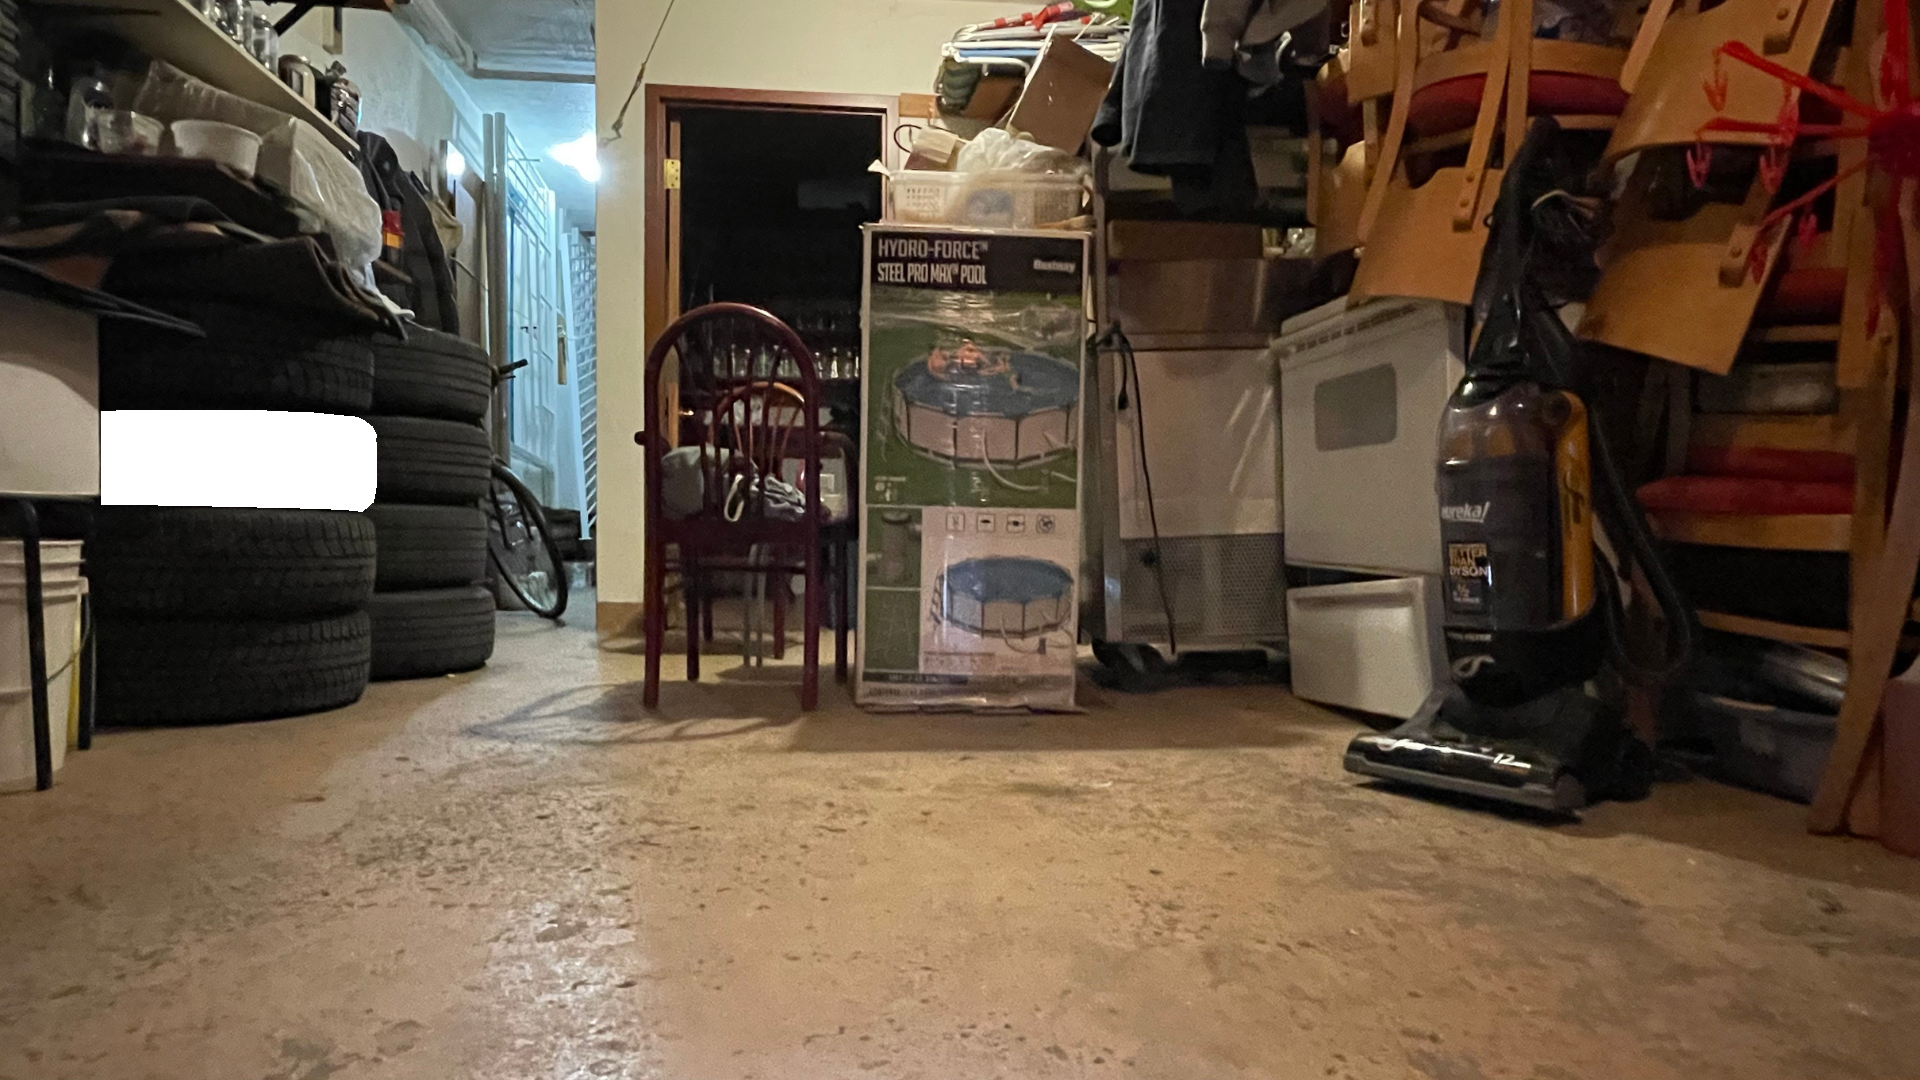
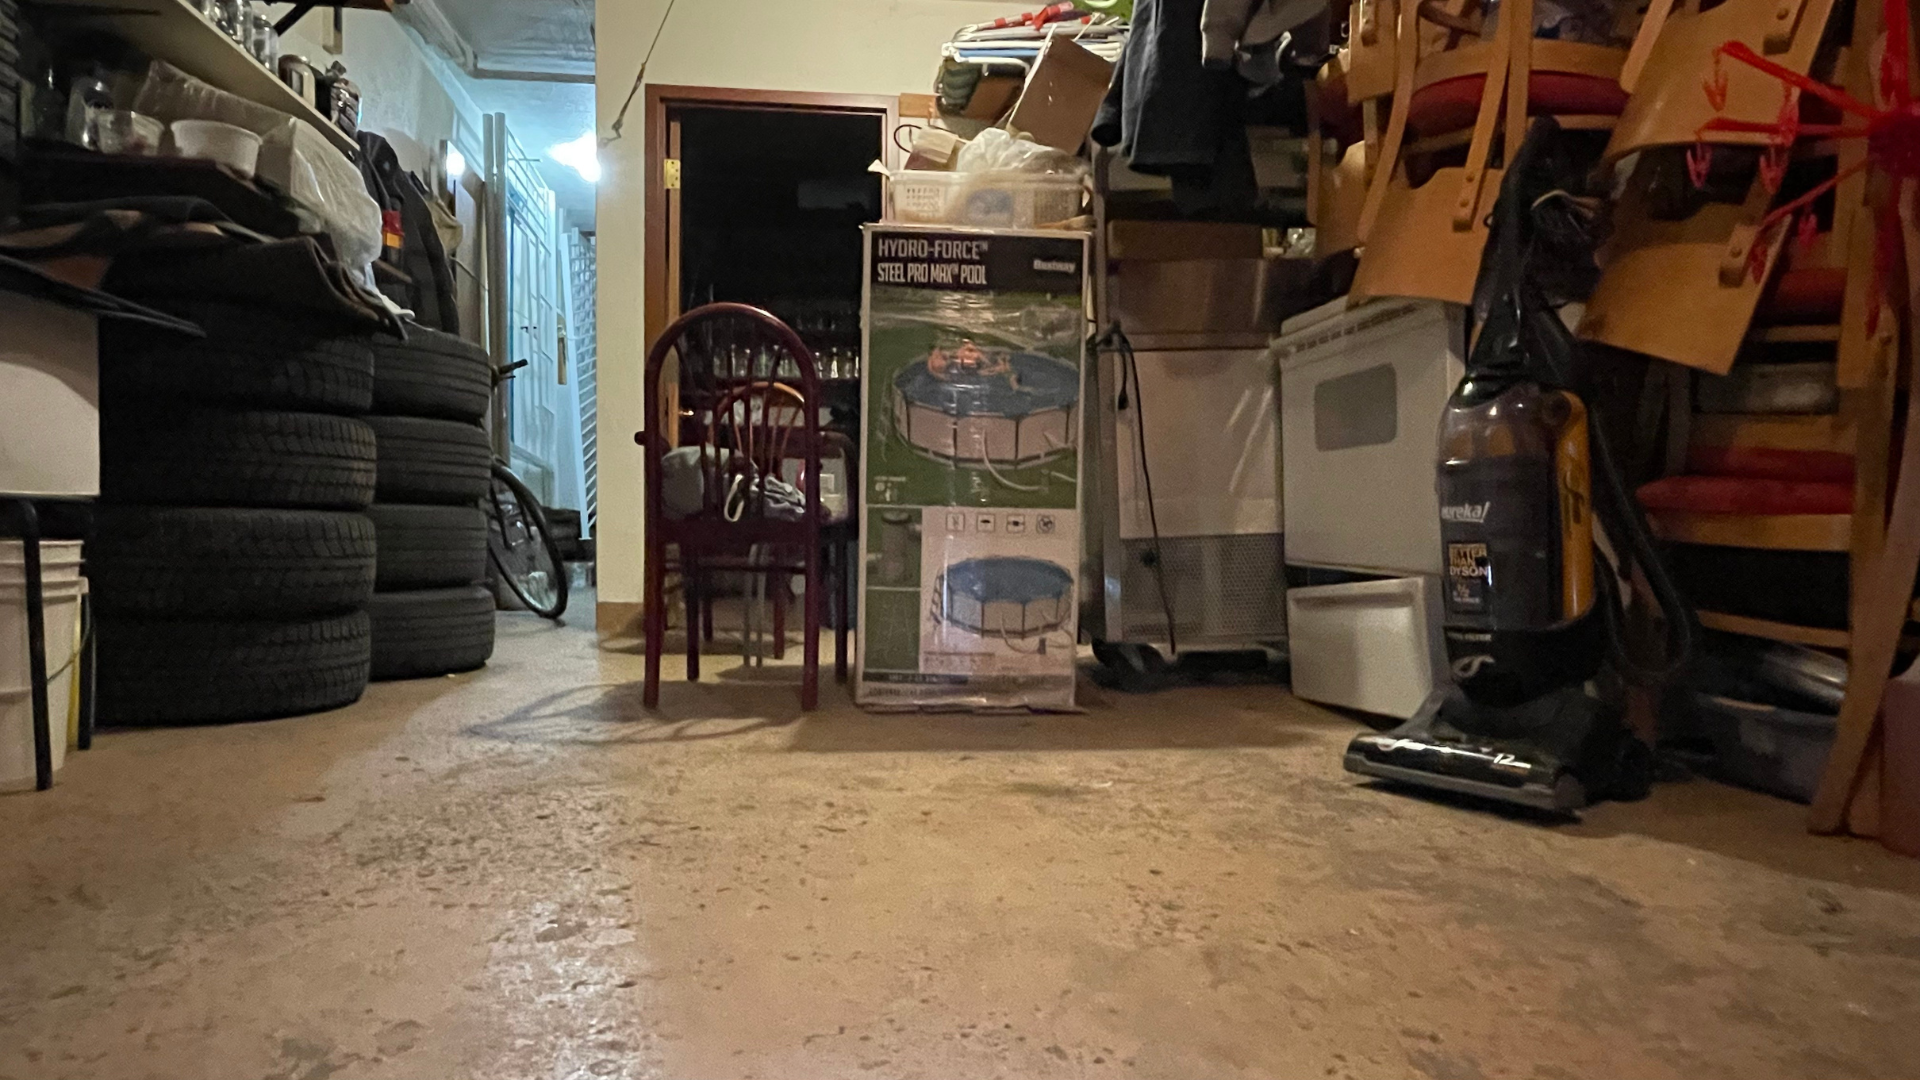
mainGame : début de passage vers flashlight

Changed region(s): [[0.0312, 0.3667, 0.2188, 0.4889]]

diff --git a/webSite/src/assets/js/mainGame.js b/webSite/src/assets/js/mainGame.js
@@ -25,7 +25,7 @@ function generateImgRoom() {
     imageObjects = [];
     for (let i = 0; i < house[user.room].views.length; i++) {
         const image = new Image();
-        image.src = `assets/png/${house[user.room].name}/${i}.png`;   
+        image.src = `assets/png/${house[user.room].name}/${i}.png`;
         imageObjects.push(image)
     }
 }
@@ -45,7 +45,7 @@ function generateView(){
         addMonster(position.x, position.y, position.height, position.width);
     }
 
-    // Add door 
+    // Add door
     const doors = house[user.room].views[user.view].doors;
     if (doors) {
         doors.forEach(function(door) {
@@ -100,7 +100,7 @@ function removeDoor(){
 
         doorsArray.forEach(function(door) {
             door.parentNode.removeChild(door);
-        });   
+        });
     }
 }
 
@@ -108,7 +108,7 @@ function generateDoor(x, y, roomIndex, view){
      // Create a div element
      var iconElement = document.createElement('iconify-icon');
      iconElement.classList.add("door");
- 
+
 
      // Set the x and y position of the icon
      iconElement.style.position = 'absolute';
@@ -129,9 +129,9 @@ function generateDoor(x, y, roomIndex, view){
         generateImgRoom()
         generateView();
      });
- 
+
      // Append the monster image to the body
-     document.getElementById("container").appendChild(iconElement); 
+     document.getElementById("container").appendChild(iconElement);
 }
 
 function generateMonster() {
@@ -161,7 +161,7 @@ function addMonster(x, y, width, height) {
 
     // Set the size of the monster image
     monsterImg.style.height =  Math.min(width, height) * 8/10 + "%"; // Adjust the width as needed
-    
+
     // Set the style attributes to position the monster based on x and y values
     monsterImg.style.position = "absolute";
     monsterImg.style.left = (x + width / 2) + "%";
@@ -185,14 +185,14 @@ function addMonster(x, y, width, height) {
 
         // Delay the navigation by 100 milliseconds (adjust as needed)
         setTimeout(function() {
-            
-            window.location.href = miniGamePath + "?monsterIndex=" + encodeURIComponent(monsterLocation.monsterIndex) 
+
+            window.location.href = miniGamePath + "?monsterIndex=" + encodeURIComponent(monsterLocation.monsterIndex)
             + "&roomName=" + encodeURIComponent(house[user.room].name) + "&viewIndex=" + encodeURIComponent(user.view);
         }, 10);
     });
 
     // Append the monster image to the body
-    document.getElementById("container").appendChild(monsterImg); 
+    document.getElementById("container").appendChild(monsterImg);
 }
 
 async function fetchData() {
@@ -290,7 +290,7 @@ function makeDraggableRightOnly() {
                     document.removeEventListener('mousemove', mousemoveHandler);
                     document.removeEventListener('mouseup', mouseupHandler)
                     window.location.href = "typing.html"; // TEMPORARY
-                } else { 
+                } else {
                     tireImg.style.left = `${(initialObjectXpos + xDiff) * 100}%`;
                 }
             } else {
@@ -336,7 +336,7 @@ window.onload = () => {
         if(user.monster >= 3){
             let userJSON = JSON.stringify(newUser);
             sessionStorage.setItem("userData", userJSON);
-            
+
             window.location.href = "endStory.html"
         }
 

diff --git a/webSite/src/assets/css/mainGame.css b/webSite/src/assets/css/mainGame.css
@@ -1,57 +1,75 @@
-body > img {
-    position: fixed;
-    top: 50%;
-    left: 50%;
-    transform: translate(-50%, -50%);
-    max-width: 100%;
-    max-height: 100%;
-    object-fit: contain;
+:root{
+    --main-bg: rgb(22, 20, 20);
 }
-
-img {
-    transform: translate(-50%, -50%);
-    pointer-events: none;
-}
-
 
 body {
-    background-color: black;
-    min-height: 100vh;
     margin: 0;
-    user-select: none;
-}
+    background-color: var(--main-bg);
+    background-image: url("../png/garage/0.png");
+    background-repeat: no-repeat;
+    background-size: contain;
+    background-position: center;
+    width: 100vw;
+    height: 100vh
 
-#container {
+  }
+
+  svg {
     position: fixed;
-    display: flex;
-    justify-content: space-between;
-    top: 50%;
-    left: 50%;
-    transform: translate(-50%, -50%);
-}
-
-.side-containers  {
-    height : 100%;
-    width: 60px;
-    display: flex;
-    align-items: center;
-    color: white;
-}
-
-.side-containers div  {
-    width: 100%;
-    text-align: center;
-}
-
-.draggable {
-    position: absolute;
-    border: 2px solid red;
-    height: 8.8%;
-    width: 14.5%;
-    left: 5.1%;
-    top: 38%;
-}
-
-#tire {
+    top: 0;
+    left: 0;
+    width: 100vw;
+    height: 100vh;
     z-index: 1;
+  }
+
+  /* #front-image:hover {
+      mask: url("#cursorMask");
+  } */
+
+  #front-image {
+      filter: brightness(0.3);
+      position: absolute;
+      top: 0;
+      left: 0;
+      width: 100vw;
+      height: 100vh;
+      z-index: 2;
+  }
+
+  .front:hover {
+      mask: url("#cursorMask");
+  }
+
+  .monster {
+      position: absolute;
+      top: 50%;
+      left: 50%;
+      width: 7em;
+      height: auto;
+      z-index: 0;
+  }
+
+.side-containers {
+    position: fixed;
+    top: 50%;
+    transform: translateY(-50%);
+    width: 10vw;
+    height: 5vw;
+    background-color: transparent;
+    color: #fff;
+    text-align: center;
+    line-height: 5vw;
+    font-size: 1.6vw;
+    font-weight: bold;
+    cursor: pointer;
+    z-index: 3;
+}
+
+.side-containers.left {
+    left: 1vw;
+}
+
+.side-containers.right {
+    right: 1vw;
 }

diff --git a/webSite/src/mainGame.html b/webSite/src/mainGame.html
@@ -6,11 +6,34 @@
     <title>Chasseur de monstres</title>
     <link rel="stylesheet" href="assets/css/mainGame.css">
     <script src="https://code.iconify.design/iconify-icon/1.0.7/iconify-icon.min.js"></script>
+    <script src="./assets/js/SearchLight.js" defer></script>
     <script src="assets/json/house.json" defer></script>
     <script src="assets/js/mainGame.js" defer></script>
 
 </head>
+
 <body>
+    <div class="main-container">
+      <svg>
+            <mask id="cursorMask" maskUnits="objectBoundingBox" maskContentUtils="objectBoundingBox">
+                <rect x="0" y="0" width="100%" height="100%" fill="#FFFFFF" />
+                <circle cx="0" cy="0" r="10vw" fill="#000000" />
+            </mask>
+          <image href="./assets/png/garage/0.png" id="front-image" class="front"/>
+      </svg>
+    </div>
+    <div id="container" class="front">
+    <div class="side-containers left" onclick="switchView('left')">
+        <div> gauche </div>
+    </div>
+        <div class="side-containers right" onclick="switchView('right')">
+            <div> droite </div>
+        </div>
+    </div>
+    <img src="./assets/png/monster/monster_1.png" alt="monster" class="monster" id="monster">
+</body>
+
+<!-- <body>
     <img id="img" src="assets/png/garage/0.png" alt="Garage Image">
     <img id="tire" src="assets/png/garage/tire.png">
     <div id="container">
@@ -24,4 +47,4 @@
     </div>
 
 </body>
-</html>
+</html> -->

diff --git a/webSite/src/assets/css/searchLight.css b/webSite/src/assets/css/searchLight.css
@@ -5,7 +5,7 @@
 body {
     margin: 0;
     background-color: var(--main-bg);
-    background-image: url("../png/bedroom/1.png");
+    background-image: url("../png/garage/0.png");
     background-repeat: no-repeat;
     background-size: contain;
     background-position: center;
